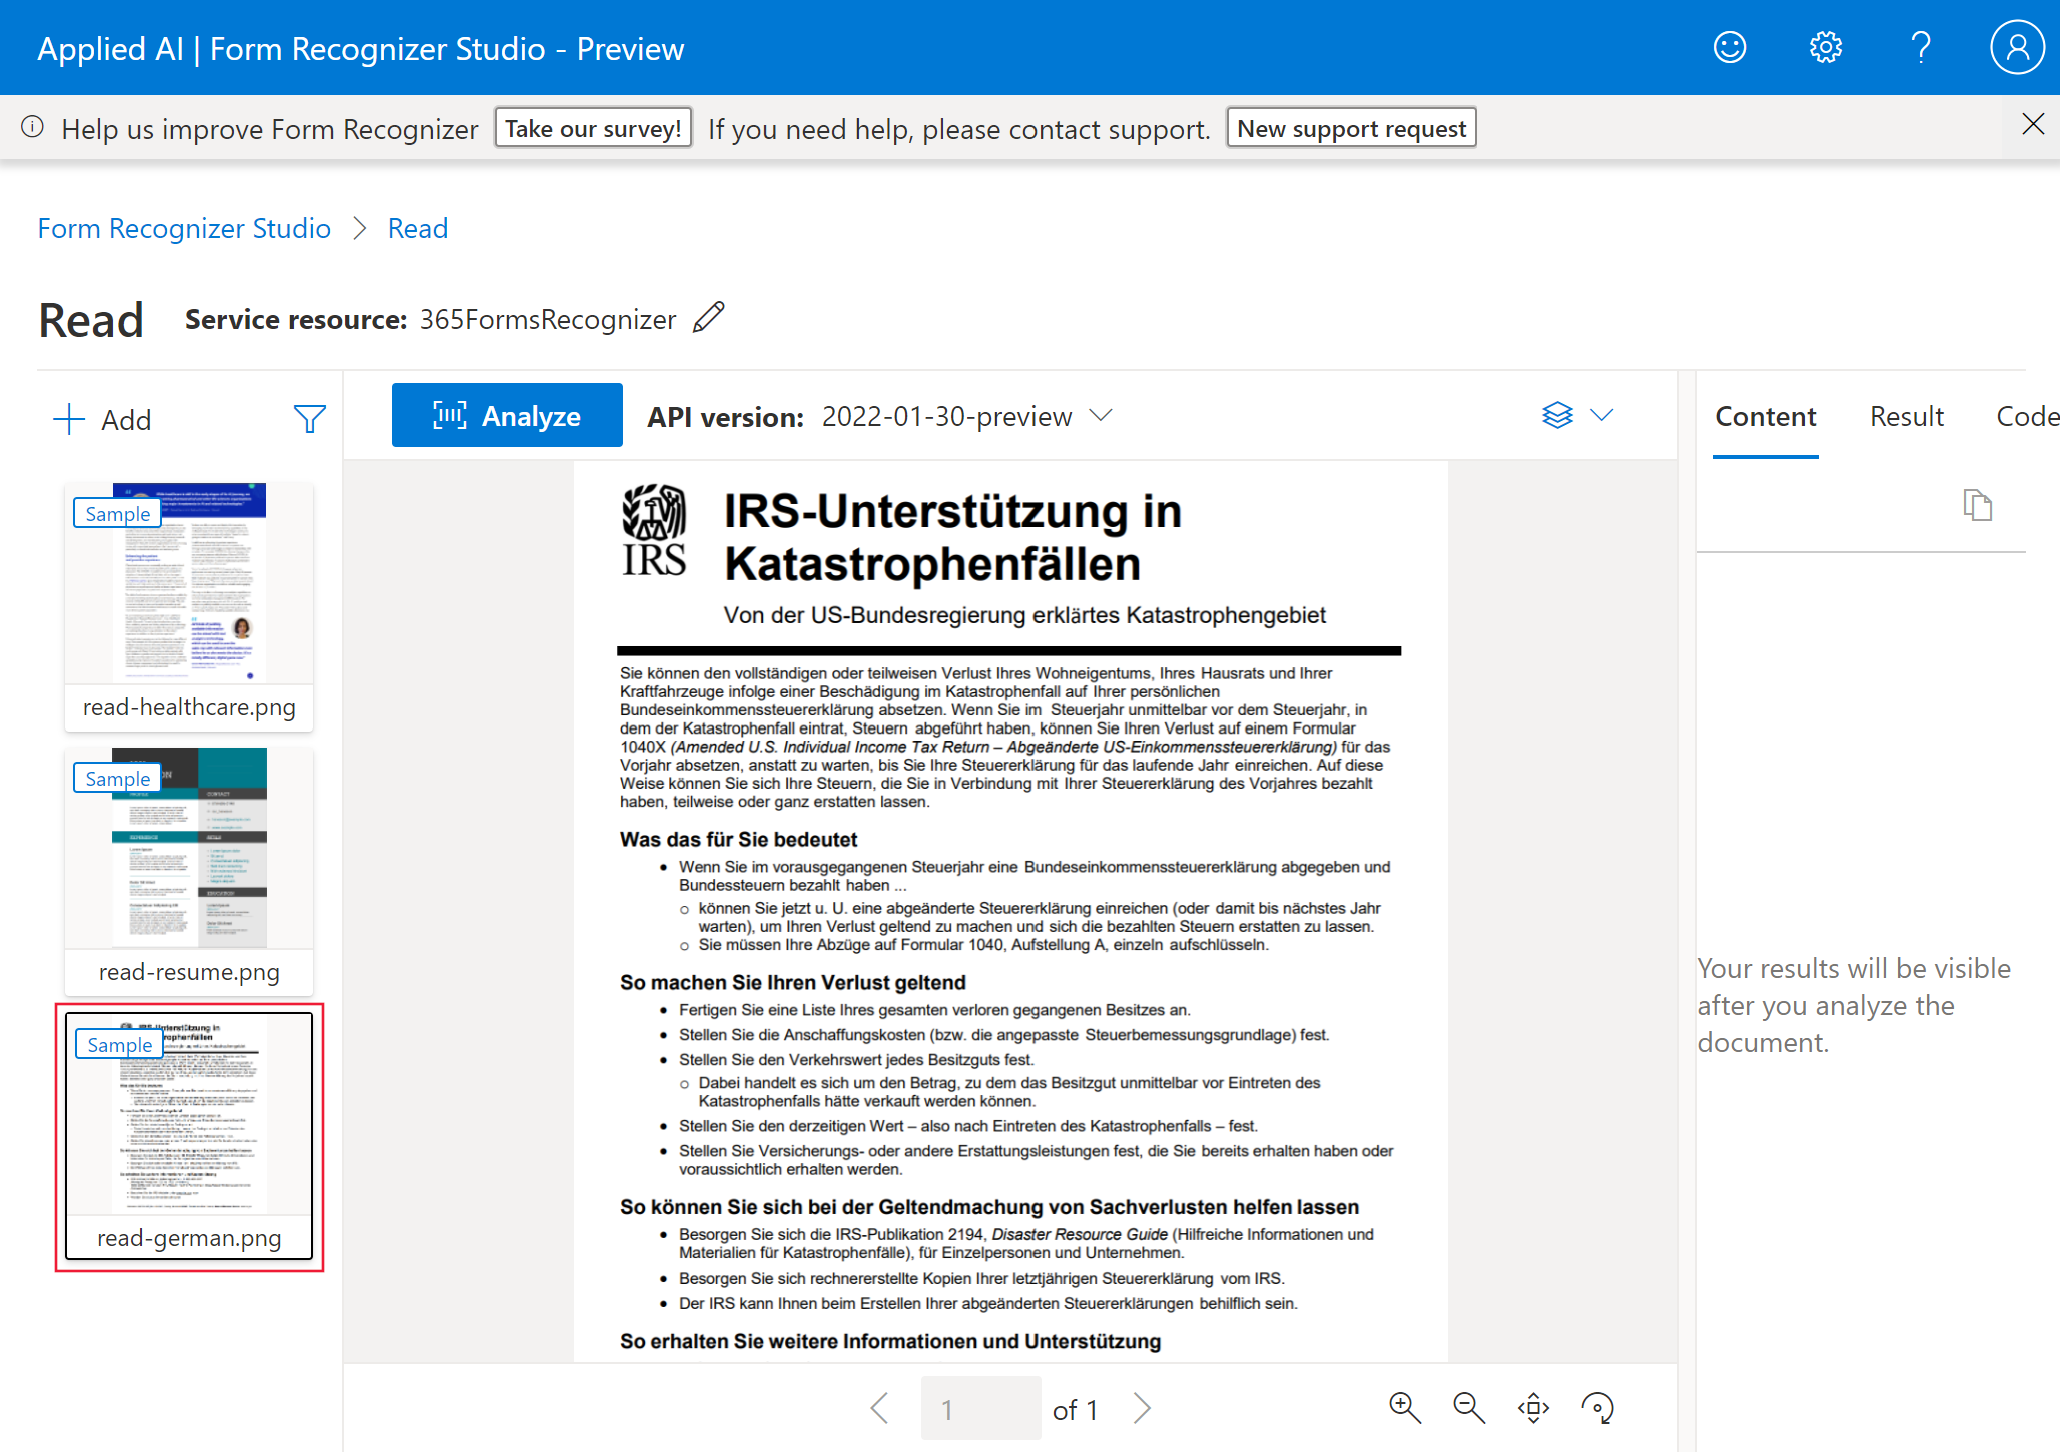
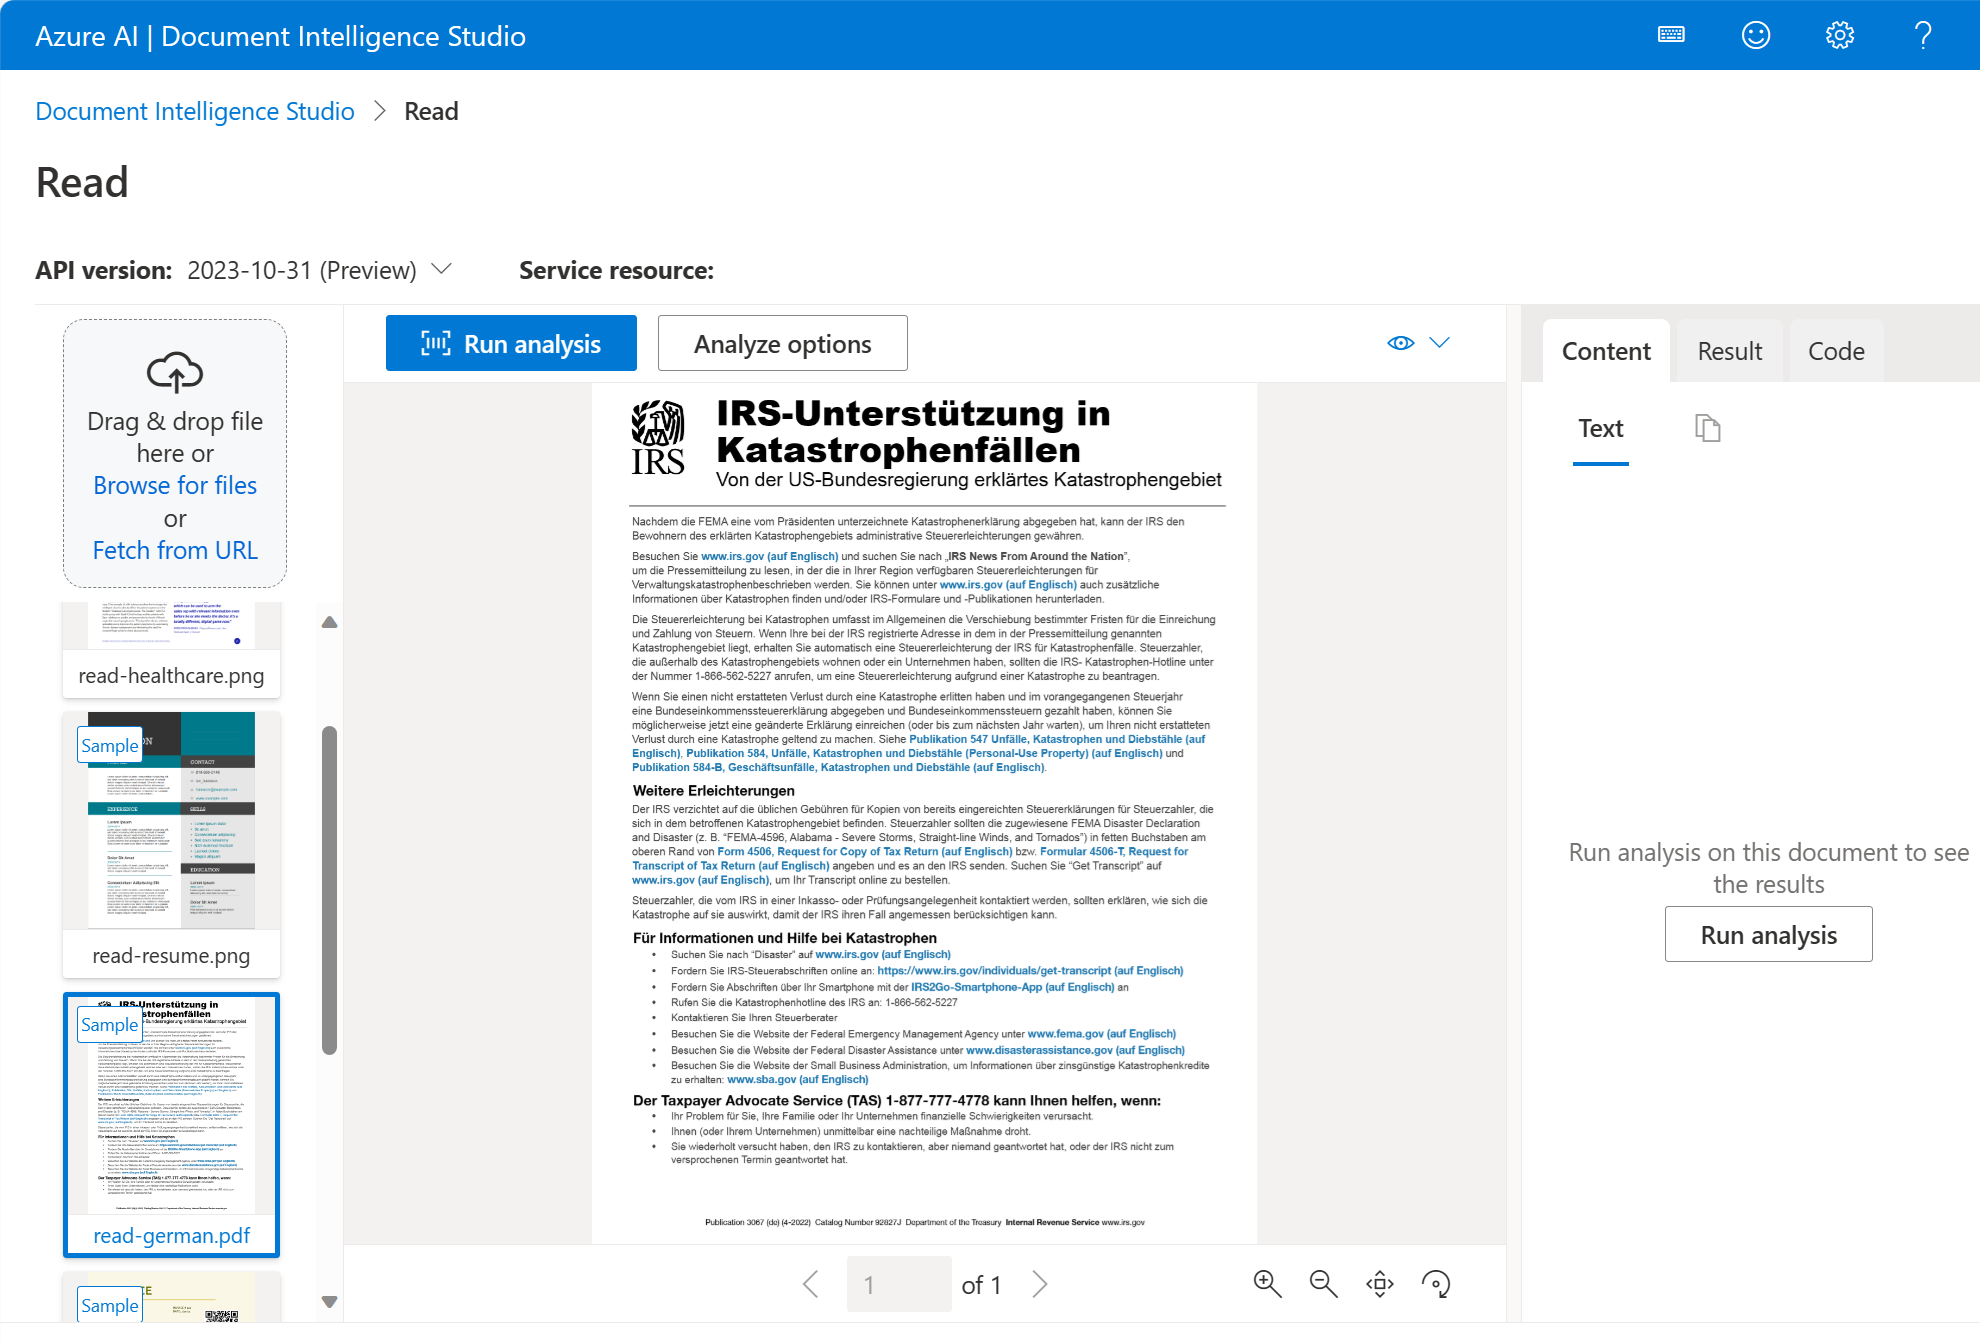
Updates to module 01.

diff --git a/Instructions/Exercises/01-use-prebuilt-models.md b/Instructions/Exercises/01-use-prebuilt-models.md
@@ -6,36 +6,37 @@ lab:
 
 # Use prebuilt Document Intelligence models
 
-In this exercise, you'll set up an Azure AI Document Intelligence resource in your Azure subscription. You'll use both the Azure AI Document Intelligence Studio and C# code to submit forms to that resource for analysis.
+In this exercise, you'll set up an Azure AI Document Intelligence resource in your Azure subscription. You'll use both the Azure AI Document Intelligence Studio and C# or Python to submit forms to that resource for analysis.
 
 ## Create an Azure AI Document Intelligence resource
 
 Before you can call the Azure AI Document Intelligence service, you must create a resource to host that service in Azure:
 
-1. In the [Azure portal](https://portal.azure.com/learn.docs.microsoft.com?azure-portal=true), on the home page in the top search box, type **Document intelligence** and then press <kbd>Enter</kbd>.
+1. In a browser tab, open the Azure portal at [https://portal.azure.com](https://portal.azure.com?azure-portal=true), signing in with the Microsoft account associated with your Azure subscription.
+1. On the Azure portal home page, navigate to the top search box and type **Document intelligence** and then press <kbd>Enter</kbd>.
 1. On the **Document Intelligence** page, select **Create**.
-1. On the **Basics** page of **Create Document Intelligence** wizard, in the **Subscription** list, select your subscription.
-1. Under the **Resource group** list, select **Create new**.
-1. In the **Name** textbox, type **DocIntelligenceResources** and then select **OK**.
-1. In the **Region** list, select a region near you.
-1. In the **Name** box, type a globally unique name for your resource.
-1. In the **Pricing tier** list, select **Free F0** and then select **Review + create**. If you don't have a Free tier available, select **Standard S0**
-1. On the **Review + create** page, select **Create**, and then wait while Azure creates the Azure AI Document Intelligence resource.
+1. On the **Create Document Intelligence** page, use the following to configure your resource:
+    - **Subscription**: Your Azure subscription.
+    - **Resource group**: Select or create a resource group with a unique name such as *DocIntelligenceResources*.
+    - **Region**: select a region near you.
+    - **Name**: Enter a globally unique name.
+    - **Pricing tier**: select **Free F0** (if you don't have a Free tier available, select **Standard S0**).
+1. Then select **Review + create**, and **Create**. Wait while Azure creates the Azure AI Document Intelligence resource.
 1. When the deployment is complete, select **Go to resource**. Keep this page open for the rest of this exercise.
 
-## Use the read model
+## Use the Read model
 
-Let's start by using the **Azure AI Document Intelligence Studio** and the read model to analyze a document with multiple languages. You'll connect Azure AI Document Intelligence Studio to the resource you just created to perform the analysis:
+Let's start by using the **Azure AI Document Intelligence Studio** and the Read model to analyze a document with multiple languages. You'll connect Azure AI Document Intelligence Studio to the resource you just created to perform the analysis:
 
-1. Open a new browser tab and go to [Azure AI Document Intelligence Studio](https://formrecognizer.appliedai.azure.com/studio).
-1. Under **Document Analysis**, select **Read**.
+1. Open a new browser tab and go to the **Azure AI Document Intelligence Studio** at [https://documentintelligence.ai.azure.com/studio](https://documentintelligence.ai.azure.com/studio).
+1. Under **Document Analysis**, select the **Read** tile.
 1. If you are asked to sign into your account, use your Azure credentials.
 1. If you are asked which Azure AI Document Intelligence resource to use, select the subscription and resource name you used when you created the Azure AI Document Intelligence resource.
 1. In the list of documents on the left, select **read-german.png**.
 
     ![Screenshot showing the Read page in Azure AI Document Intelligence Studio.](../media/read-german-sample.png#lightbox)
 
-1. At the top-left, select **Analyze**.
+1. At the top-left, select **Run Analysis**.
 1. When the analysis is complete, the text extracted from the image is shown on the right in the **Content** tab. Review this text and compare it to the text in the original image for accuracy.
 1. Select the **Result** tab. This tab displays the extracted JSON code. 
 1. Scroll to the bottom of the JSON code in the **Result** tab. Notice that the read model has detected the language of each span. Most spans are in German (language code `de`) but the last span is in English (language code `en`).
@@ -57,7 +58,7 @@ Now let's explore the app that uses the Azure Document Intelligence service SDK.
 
 ## Configure your application
 
-Applications for both C# and Python have been provided, as well as a sample pdf file you'll use to test the document intelligence. Both apps feature the same functionality. First, you'll complete some key parts of the application to enable using your Azure Document Intelligence resource.
+Applications for both C# and Python have been provided, as well as a sample pdf file you'll use to test Document Intelligence. Both apps feature the same functionality. First, you'll complete some key parts of the application to enable using your Azure Document Intelligence resource.
 
 1. Examine the following invoice and note some of its fields and values. This is the invoice that your code will analyze.
 
@@ -83,7 +84,7 @@ Applications for both C# and Python have been provided, as well as a sample pdf 
 
 Now you're ready to use the Azure Form Recognizer SDK to evaluate the pdf file.
 
-1. Switch to the browser tab that displays the Azure AI Document Intelligence overview in the Azure portal. To the right of the **Endpoint** value, click the **Copy to clipboard** button.
+1. Switch to the browser tab that displays the Azure AI Document Intelligence overview in the Azure portal. On the left pane, under *Resource Management*, select **Keys and Endpoint**. To the right of the **Endpoint** value, click the **Copy to clipboard** button.
 1. In the **Explorer** pane, in the **CSharp** or **Python** folder, open the code file for your preferred language, and replace `<Endpoint URL>` with the string you just copied:
 
     **C#**: ***Program.cs***
@@ -98,7 +99,7 @@ Now you're ready to use the Azure Form Recognizer SDK to evaluate the pdf file.
     endpoint = "<Endpoint URL>"
     ```
 
-1. Switch to the browser tab that displays the Azure AI Document Intelligence overview in the Azure portal. To the right of the **KEY 1** value, click the *Copy to clipboard** button.
+1. Switch to the browser tab that displays the Azure AI Document Intelligence **Keys and Endpoint** in the Azure portal. To the right of the **KEY 1** value, click the *Copy to clipboard** button.
 1. In the code file in Visual Studio Code, locate this line and replace `<API Key>` with the string you just copied:
 
     **C#**
